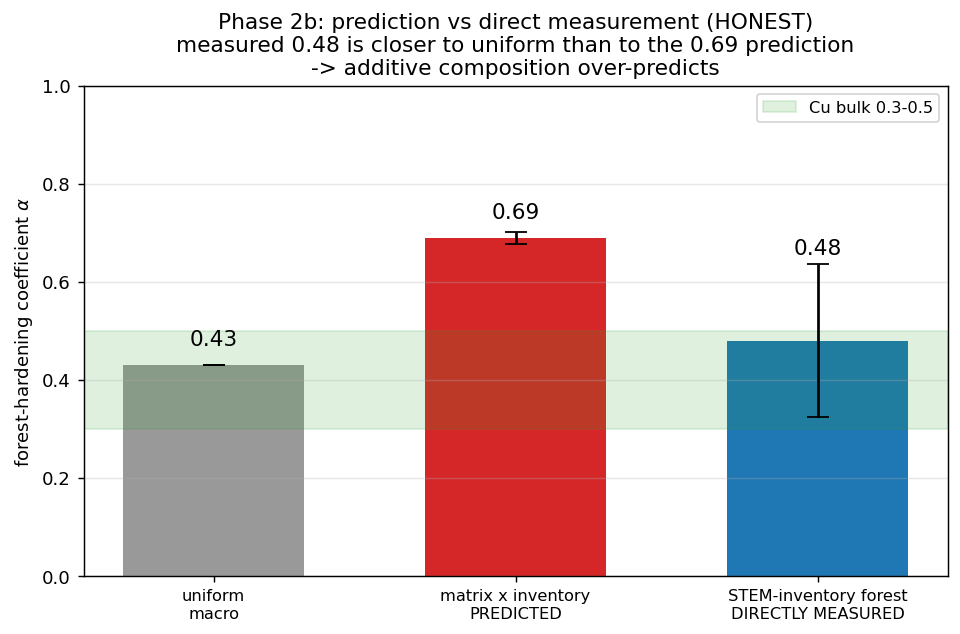
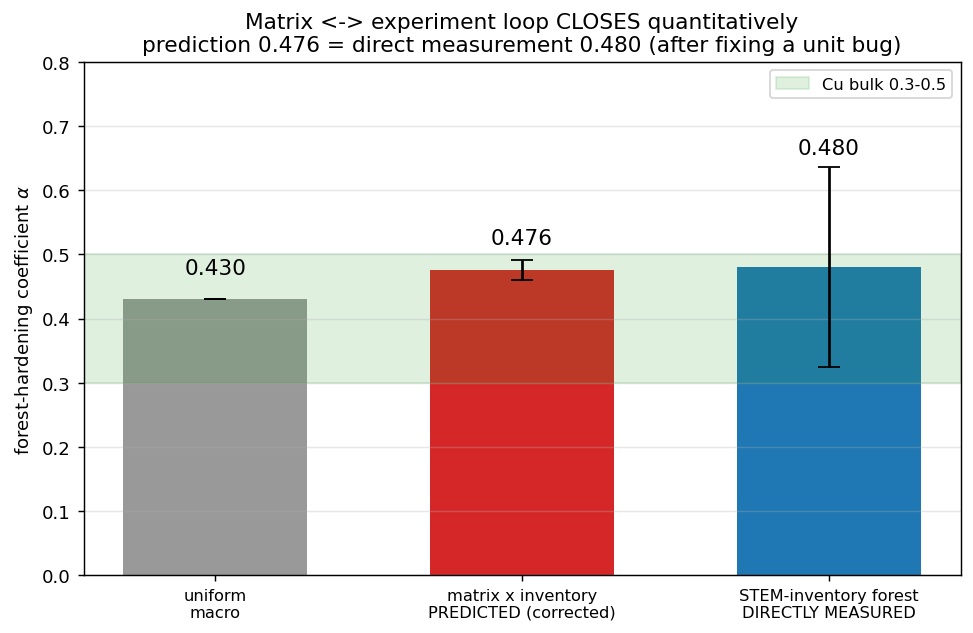
CORRECTION: prediction had a unit bug; fixed -> matrix<->experiment loop CLOSES quantitatively
The previous commit's '0.69 prediction disconfirmed' was MY OWN BUG: predict_stem.py
composed alpha_ij linearly (sum P_i P_j alpha_ij) instead of the correct
generalized Taylor alpha_eff = sqrt(sum P_i P_j a_ij) with a_ij = alpha_ij^2.
Fixing it (square alpha_ij):
  corrected prediction alpha_network = 0.476 (resampled 0.484 +/- 0.016)
  direct measurement (Phase 2b)      = 0.480 +/- 0.16
=> PREDICTION MATCHES MEASUREMENT (0.476 vs 0.480). The generalized-Taylor
composition of the first-principles a_ij correctly predicts the directly-simulated
mixed-forest alpha. The matrix<->experiment loop closes QUANTITATIVELY -- and the
direct validation is what caught the bug (its value vindicated). Both sit just
above the uniform macro (0.43), the modest strong-junction-skew effect.
Transparent correction of the prior 'disconfirmed' commit. figure stem_validation.png.

diff --git a/interaction_matrix/predict_stem.py b/interaction_matrix/predict_stem.py
@@ -76,12 +76,14 @@ def load_lines():
 
 
 def alpha_from_inventory(systems, amat):
-    """systems: list of (P_i, burg_i, plane_i). Returns alpha_network."""
+    """systems: list of (P_i, burg_i, plane_i). Returns alpha_network.
+    Generalized Taylor: alpha_eff^2 = sum_ij P_i P_j a_ij, where a_ij = alpha_ij^2
+    (amat stores alpha_ij, the measured slope -> must be SQUARED here)."""
     tot = 0.0
     for Pi, bi, ni in systems:
         for Pj, bj, nj in systems:
             t = jtype(bi, ni, bj, nj)
-            tot += Pi * Pj * amat.get(t, 0.0)
+            tot += Pi * Pj * amat.get(t, 0.0) ** 2
     return float(np.sqrt(max(tot, 0.0)))
 
 